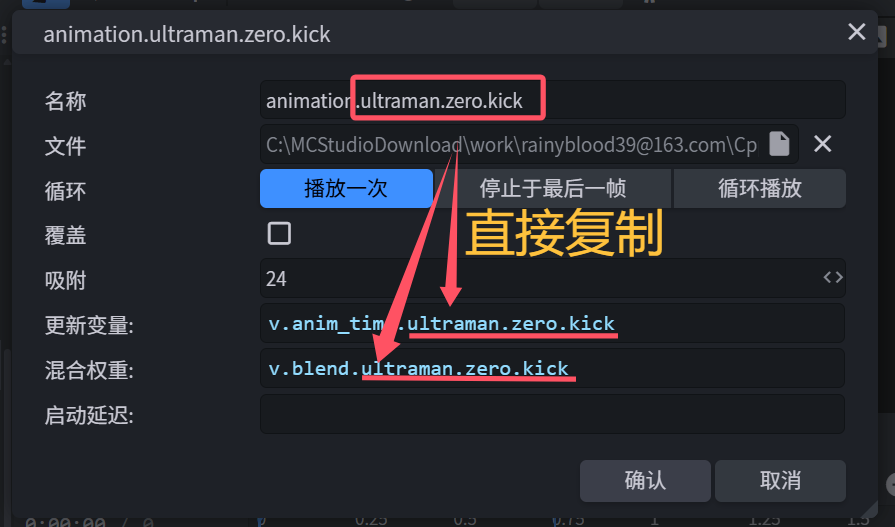
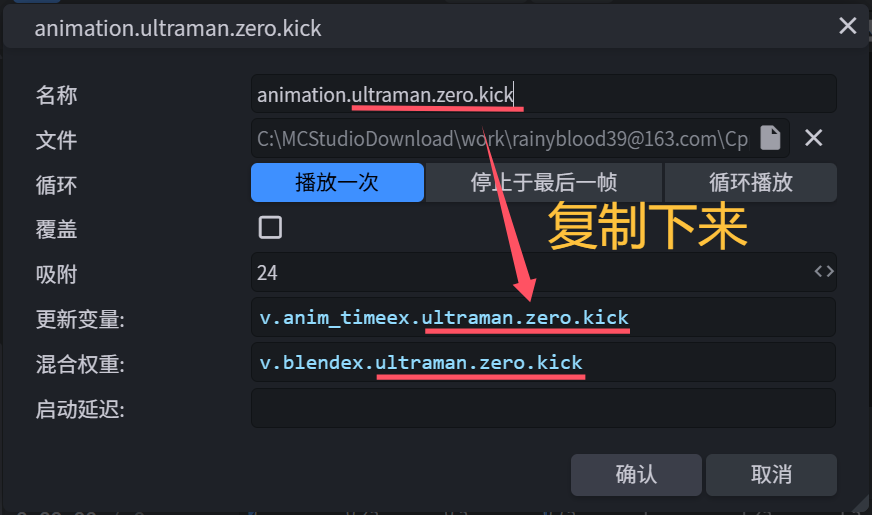
fix: animation blending & animation playing when stoppped

diff --git a/architect/plugins/animation/systems/animPlay.py b/architect/plugins/animation/systems/animPlay.py
@@ -3,8 +3,10 @@ import time, math
 from ....compact import Sched, Query, ClientSubsystem, SubsystemClient
 from ....math.double import lerp
 
-from ..enum import AnimationEasingTypes, AnimationBlendingTypes, AnimEvents
+from ..enum import AnimationEasingTypes, AnimationBlendingTypes, AnimExEvents, LoopType
 from ..components.animClient import AnimationExComponent
+from ..components.dilation import AnimationDilation
+from ..utils import AnimationEventDispatcher
 
 
 @SubsystemClient
@@ -20,7 +22,8 @@ class AnimationExSubsystem(ClientSubsystem):
         AnimationEasingTypes.EXPO: lambda a, b, t: lerp(a, b, pow(2, 10 * (t - 1)))
     }
 
-    def registerEasingFunc(self, easingType, func):
+    @classmethod
+    def registerEasingFunc(cls, easingType, func):
         # type: (str, function) -> None
         """
         :example:
@@ -28,61 +31,72 @@ class AnimationExSubsystem(ClientSubsystem):
             registerEasingFunc('custom', lambda a, b, t: lerp(a, b, t * t * t))
         ```
         """
-        self.EasingFuncs[easingType] = func
+        cls.EasingFuncs[easingType] = func
 
 
-    def _getBlendValue(self, animEx, animKey, blending):
-        # type: (AnimationExComponent, str, dict) -> float
+    def _getBlendValue(self, animEx, animKey, blending, dilation):
+        # type: (AnimationExComponent, str, dict, float) -> float
         target = blending['target']
         duration = blending['duration']
         func = blending['func']
         startTime = blending['startTime']
         type = blending['type']
         now = time.time()
-        dt = now - startTime
+        dt = (now - startTime) * dilation
         if dt >= duration:
-            animEx.variables[animKey].setValue(target)
             animEx.blending.pop(animKey)
             animInfo = animEx.playing.get(animKey)
             if animInfo:
                 animInfo._manualStop = True
             return target
         t = dt / duration
-        if type == AnimationBlendingTypes.IN:
+        if type == AnimationBlendingTypes.OUT:
             t = 1 - t
-        if func in self.EasingFuncs:
-            t = self.EasingFuncs[func](0, 1, t)
-        return lerp(0, target, t)
+        return self.EasingFuncs[func](0, 1, t)
     
 
     def onInit(self):
         self.lastFrameTime = 0
         self.canTick = True
+        self.broadcastEvent = False
 
 
     def onRender(self, dt):
         self.lastFrameTime = dt
+
+
+    def _getEventDiapsatcher(self, name):
+        # type: (str) -> AnimationEventDispatcher
+        return AnimationEventDispatcher.dispatchers.get(name)
     
 
     @Sched.Render()
-    @Query(AnimationExComponent)
-    def updateAnimState(self, animEx):
-        # type: (AnimationExComponent) -> None
+    @Query(AnimationExComponent, AnimationDilation)
+    def updateAnimState(self, animEx, dilation):
+        # type: (AnimationExComponent, AnimationDilation) -> None
 
         # update blending
         for animKey, blending in animEx.blending.items():
-            curValue = self._getBlendValue(animEx, animKey, blending)
+            curValue = self._getBlendValue(animEx, animKey, blending, dilation.value)
             animEx.variables[animKey].setValue(curValue)
 
         # update animation
         for animKey, animInfo in animEx.playing.items():
+            animName = animInfo.animName
             if animInfo.isFinished():
-                eventType = AnimEvents.Interrupted if animInfo._manualStop else AnimEvents.Finish
-                self.broadcast(eventType, {
+                eventType = AnimExEvents.Interrupted if animInfo._manualStop else AnimExEvents.Finish
+                dispatcher = self._getEventDiapsatcher(animName)
+                eventDate = {
+                    'type': eventType,
                     'animKey': animKey,
                     'entityId': animEx.entityId,
-                    'animName': animInfo.animName
-                })
+                    'animName': animName
+                }
+                if dispatcher:
+                    dispatcher.dispatch(eventDate)
+                if self.broadcastEvent:
+                    self.broadcast(eventType, eventDate)
+
                 animEx.playing.pop(animKey)
                 animEx.variables[animKey].setValue(0)
                 targetLayer = animEx.layers[animInfo.layer]
@@ -93,14 +107,25 @@ class AnimationExSubsystem(ClientSubsystem):
             for notify in animInfo.getNotifies():
                 name = notify['name']
                 state = notify['state']
-                self.broadcast(
-                    AnimEvents.NotifyStart if state else AnimEvents.NotifyEnd,
-                    {
-                        'animKey': animKey,
-                        'entityId': animEx.entityId,
-                        'animName': animInfo.animName,
-                        'notifyName': name
-                    }
-                )
+                eventData = {
+                    'type': AnimExEvents.Notify,
+                    'state': state,
+                    'animKey': animKey,
+                    'entityId': animEx.entityId,
+                    'animName': animName,
+                    'notifyName': name
+                }
+                dispatcher = self._getEventDiapsatcher(animName)
+                if dispatcher:
+                    dispatcher.dispatch(eventData)
+                if self.broadcastEvent:
+                    self.broadcast(
+                        AnimExEvents.Notify,
+                        eventData
+                    )
+                    self.broadcast(
+                        AnimExEvents.NotifyStart if state else AnimExEvents.NotifyEnd,
+                        eventData
+                    )
 
-            animInfo.doTick(self.lastFrameTime)
+            animInfo.doTick(self.lastFrameTime * dilation.value)

diff --git a/architect/plugins/animation/components/animClient.py b/architect/plugins/animation/components/animClient.py
@@ -1,6 +1,6 @@
 import time
 
-from ....compact import Ref, Component, BaseCompClient, getOneComponent, NamedEntityVariable, QueryVariable
+from ....compact import Component, BaseCompClient, getOneComponent, NamedEntityVariable
 from ....utils.persona.client import PersonaRendererComponent
 from ..enum import AnimationEasingTypes, AnimationBlendingTypes, LoopType
 
@@ -11,7 +11,7 @@ except:
 
 
 class AnimationEasingConf(object):
-    def __init__(self, target=1, duration=0.3, func=AnimationEasingTypes.LINEAR):
+    def __init__(self, target=1, duration=0.15, func=AnimationEasingTypes.LINEAR):
         self.target = target
         self.func = func
         self.duration = duration
@@ -74,9 +74,9 @@ class AnimationExComponent(BaseCompClient):
         self.entityId = entityId
         self.layers = {} #type: dict[int, set]
         self.animations = {} # type: dict[str, str]
-        self.variables = {}
+        self.variables = {} # type: dict[str, NamedEntityVariable]
         self.blending = {}
-        self.blendingConf = {}
+        self.blendingConf = {} # type: dict[str, dict[str, AnimationEasingConf]]
         self.playing = {} # type: dict[str, AnimPlayingInfo]
         self.notifies = {}
 
@@ -119,20 +119,28 @@ class AnimationExComponent(BaseCompClient):
 
     def registerEasing(self, animKey, inConf=AnimationEasingConf(), outConf=AnimationEasingConf(0)):
         # type: (str, AnimationEasingConf, AnimationEasingConf) -> None
+        """
+        注册动画混合的缓动效果, 不注册时没有混合效果
+        """
         self.blendingConf[animKey] = {
             'in': inConf,
             'out': outConf
         }
 
-    def updateBlending(self, blendingType, animKey, partial={}):
+    def setBlending(self, blendingType, animKey, partial={}):
         # type: (AnimationBlendingTypes, str, dict) -> None
         rawBlendingConf = self.blendingConf.get(animKey)
+        # 无混合时，直接设置值
         if not rawBlendingConf:
+            if blendingType == AnimationBlendingTypes.IN:
+                self.variables[animKey].setValue(1)
+            elif blendingType == AnimationBlendingTypes.OUT:
+                self.variables[animKey].setValue(0)
             return
         bConf = rawBlendingConf.get(blendingType)
-        target = partial.get('target', bConf['target'])
-        duration = partial.get('duration', bConf['duration'])
-        func = partial.get('func', bConf['func'])
+        target = partial.get('target', bConf.target)
+        duration = partial.get('duration', bConf.duration)
+        func = partial.get('func', bConf.func)
         existedBlending = self.blending.get(animKey)
         if existedBlending:
             existedBlending['target'] = target
@@ -160,23 +168,26 @@ class AnimationExComponent(BaseCompClient):
             return
 
         # 将其他层的同名动画删除
-        playingLayer = self.playing.get(animKey)
-        if playingLayer and playingLayer.layer:
+        animInfo = self.playing.get(animKey)
+        if animInfo and animInfo.layer:
             self.playing.pop(animKey)
-            self.layers.pop(playingLayer.layer)
+            self.layers.pop(animInfo.layer)
+
+        # 创建动画播放运行时
         self.playing[animKey] = AnimPlayingInfo(
             self.entityId,
             self.animations[animKey],
             layer, time.time(), playRate
         )
 
+        # 记录动画播放层级
         playing = self.layers.get(layer, set()) # type: set[str]
         if len(playing) > 0:
             # 长度大于 0 才需要混合动画
             for _animKey in playing:
-                self.updateBlending(AnimationBlendingTypes.OUT, _animKey)
+                self.setBlending(AnimationBlendingTypes.OUT, _animKey)
             self.variables[animKey].setValue(0)
-            self.updateBlending(AnimationBlendingTypes.IN, animKey)
+            self.setBlending(AnimationBlendingTypes.IN, animKey)
         else:
             variable = self.variables[animKey]
             # 直接播放
@@ -195,7 +206,7 @@ class AnimationExComponent(BaseCompClient):
         if noBlending:
             self.variables[animKey].setValue(0)
         else:
-            self.updateBlending(AnimationBlendingTypes.OUT, animKey)
+            self.setBlending(AnimationBlendingTypes.OUT, animKey)
         playing = self.layers.get(layer, set()) # type: set[str]
         playing.remove(animKey)
         self.layers[layer] = playing

diff --git a/architect/core/basic.py b/architect/core/basic.py
@@ -8,15 +8,31 @@ class Location:
         self.dim = dim
 
 __threads = {}
+__meta = {}
 
 def isServer():
     curId = threading.current_thread().ident
     if curId in __threads:
         return __threads[curId]
     else:
-        _isServer = clientApi.GetLocalPlayerId() == '-1'
+        localPlayerId = clientApi.GetLocalPlayerId()
+        _isServer = localPlayerId == '-1'
+        if not _isServer:
+            __meta['localPlayerId'] = localPlayerId
         __threads[threading.current_thread().ident] = _isServer
         return _isServer
+
+def levelId():
+    if isServer():
+        if __meta.get('levelIdServer', None) is None:
+            __meta['levelIdServer'] = serverApi.GetLevelId()
+        return __meta['levelIdServer']
+    else:
+        if __meta.get('levelIdClient', None) is None:
+            __meta['levelIdClient'] = clientApi.GetLevelId()
+        return __meta['levelIdClient']
+
+localPlayerId = lambda: __meta.get('localPlayerId', '-1') # 不要在服务器端使用
 
 def getComponentCls():
     if isServer():
@@ -32,8 +48,6 @@ def serverTick():
 
 compServer = serverApi.GetEngineCompFactory()
 compClient = clientApi.GetEngineCompFactory()
-
-localPlayer = lambda: clientApi.GetLocalPlayerId() # 不要在服务器端使用
 
 defaultFilters = {
     "any_of": [

diff --git a/architect/plugins/animation/utils.py b/architect/plugins/animation/utils.py
@@ -1,0 +1,34 @@
+from ...core.unreliable import Unreliable
+from .enum import AnimExEvents
+
+class AnimationEventDispatcher(Unreliable):
+    dispatchers = {}
+
+    def __init__(self, animName):
+        self.bindAnim = animName
+        AnimationEventDispatcher.dispatchers[animName] = self
+
+    def _callNamedMethod(self, methodName, *args):
+        method = getattr(self, methodName, None)
+        if callable(method):
+            self.tryCall(method, *args)
+
+    def dispatch(self, ev):
+        entityId = ev['entityId']
+        typeStr = ev['type']
+        if typeStr == AnimExEvents.Interrupted:
+            return self._callNamedMethod('onInterrupted', entityId)
+        elif typeStr == AnimExEvents.Finish:
+            return self._callNamedMethod('onFinish', entityId)
+        elif typeStr == AnimExEvents.Notify:
+            state = 'Start' if ev['state'] else 'End'
+            notifyName = ev['notifyName']
+            methodName = 'notify' + notifyName.capitalize() + state.capitalize()
+            return self._callNamedMethod(methodName, entityId)
+
+
+def AnimExListener(animName):
+    def wrapper(cls):
+        cls(animName)
+        return cls
+    return wrapper

diff --git a/architect/core/subsystem.py b/architect/core/subsystem.py
@@ -6,7 +6,7 @@ import mod.server.extraServerApi as serverApi
 from .annotation import AnnotationHelper
 from .scheduler import Scheduler, Sched, SimpleFixedScheduler
 from .basic import isServer, Location
-from .loader import __modname__, _loadPlugins, _notifyAddSubsystem, _notifyRemoveSubsystem, modConf
+from .loader import __modname__, _loadPlugins, _readyPlugins, _notifyAddSubsystem, _notifyRemoveSubsystem, modConf
 
 from ..component.core import _registerCompsIntoGame, getOrCreateSingletonComponent
 from ..event.client import event as eventClient
@@ -145,6 +145,7 @@ class SubsystemManager:
         subs = self.clientSubs if isServer else self.serverSubs
         for v in subs.values():
             v.onReady()
+        _readyPlugins(self)
 
 
     def startTicking(self, isServer):

diff --git a/architect/plugins/animation/client.py b/architect/plugins/animation/client.py
@@ -18,3 +18,18 @@ from ...core.loader import Plugin, PluginBase
 class AnimationExPlugin(PluginBase):
     def onAttach(self, manager):
         from .systems.animPlay import AnimationExSubsystem
+
+    def onReady(self, manager):
+        from ...core.basic import localPlayerId
+        from ...component.core import getOrCreateComponent
+        from .components.dilation import AnimationDilation
+        getOrCreateComponent(localPlayerId(), AnimationDilation)
+
+    @staticmethod
+    def setDilation(val):
+        from ...core.basic import localPlayerId
+        from ...component.core import getOrCreateComponent
+        from .components.dilation import AnimationDilation
+
+        dilation = getOrCreateComponent(localPlayerId(), AnimationDilation)
+        dilation.value = val

diff --git a/architect/core/loader.py b/architect/core/loader.py
@@ -139,6 +139,8 @@ def _loadPlugins(manager):
             print('[INFO] Loaded plugin: ' + _host.name)
         except Exception as e:
             print('[ERROR] Failed to load plugin ' + _name)
+
+def _readyPlugins(manager):
     for _host in _plugins().values():
         try:
             _host.onReady(manager)

diff --git a/architect/plugins/animation/enum.py b/architect/plugins/animation/enum.py
@@ -24,7 +24,8 @@ class NotifyState:
     END = 0
 
 
-class AnimEvents:
+class AnimExEvents:
+    Notify = 'animEx:Notify'
     NotifyStart = 'animEx:NotifyStart'
     NotifyEnd = 'animEx:NotifyEnd'
     Finish = 'animEx:Finish'

diff --git a/architect/plugins/animation/components/dilation.py b/architect/plugins/animation/components/dilation.py
@@ -1,0 +1,6 @@
+from ....compact import Component, BaseCompClient
+
+@Component()
+class AnimationDilation(BaseCompClient):
+    def onCreate(self, _):
+        self.value = 1
